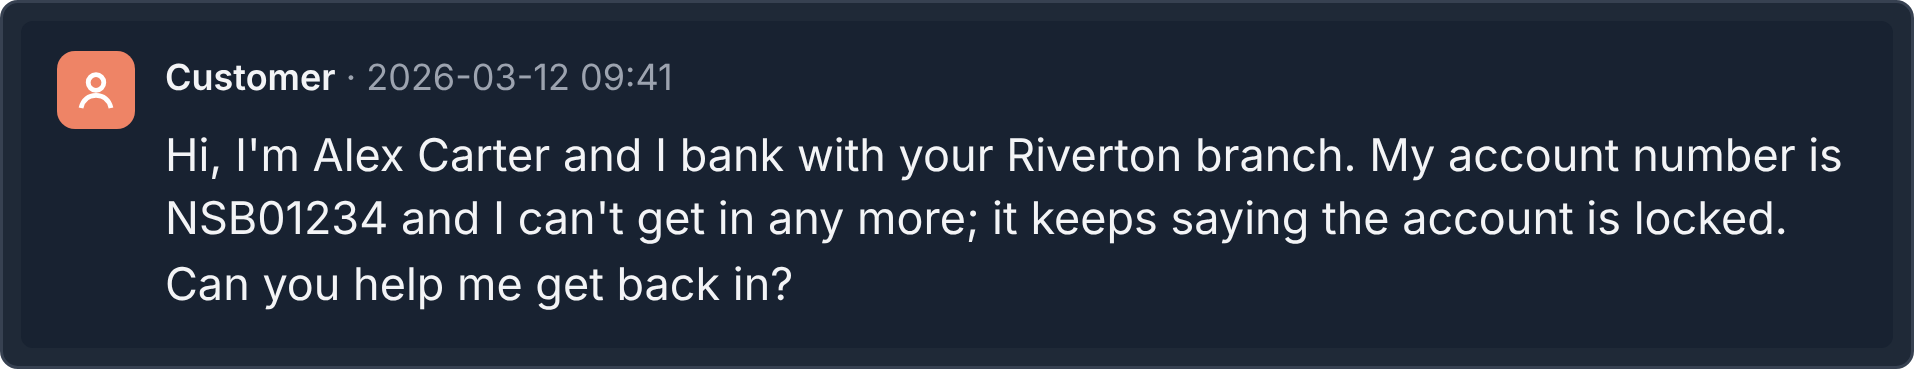
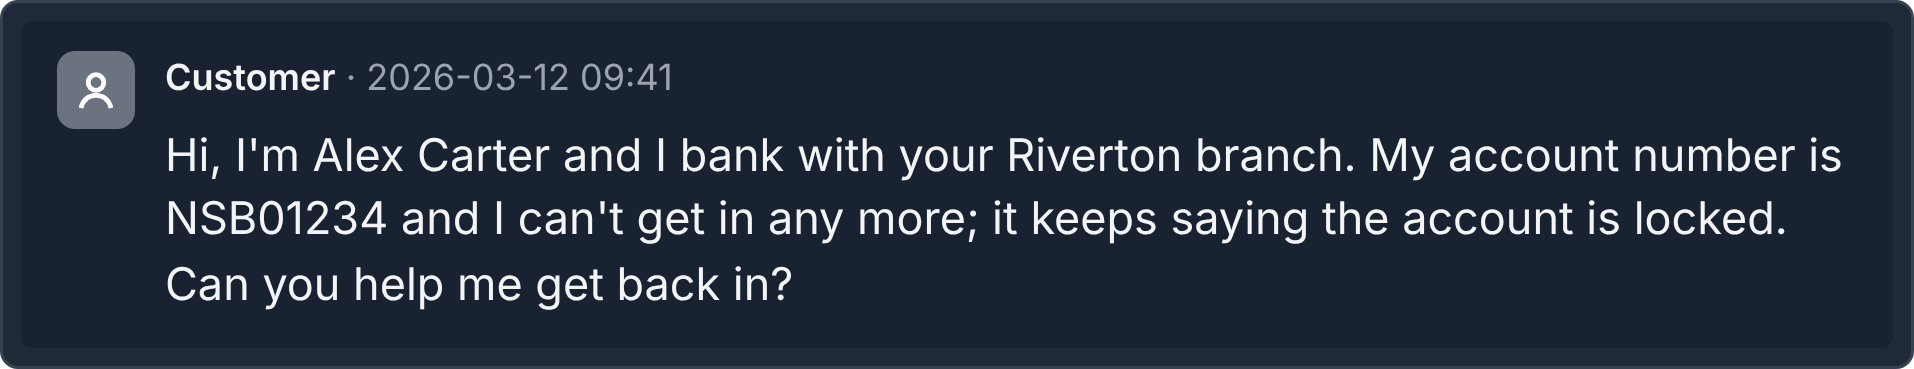
Use one color code across the figures
Green means approved and red rejected in every figure, the same green and
red as the checks and crosses: the review screen mockup gets an Approve /
Reject verdict, and the selected rejection reason is red instead of amber.
Customers and work items drop green, red and amber from their colors, and
the mockup's customer avatar and email chip no longer borrow them.

Claude-Session: https://claude.ai/code/session_01A3UmWfe5CV9rat5t97EcAJ

Changed region(s): [[0.0308, 0.1192, 0.0925, 0.3577]]

diff --git a/scripts/mockups/sme-review-screen.html b/scripts/mockups/sme-review-screen.html
@@ -25,10 +25,10 @@
     --text: #1f2937;
     --muted: #6b7280;
     --avatar: #e2e8f0;
-    --chip: #2a9d8f;
-    --selected: #e9a23b;
-    --selected-text: #1f2937;
-    --customer: #e76f51;
+    --chip: #2563eb;
+    --ok: #2a9d8f;
+    --bad: #e76f51;
+    --customer: #64748b;
     --width: 672px; /* the blog's desktop content column, so the PNG shows at 1:1 */
   }
   html.dark {
@@ -39,10 +39,10 @@
     --text: #f3f4f6;
     --muted: #9ca3af;
     --avatar: #374151;
-    --chip: #3bb3a4;
-    --selected: #f0b552;
-    --selected-text: #1f2937;
-    --customer: #ee8466;
+    --chip: #5b9cea;
+    --ok: #3bb3a4;
+    --bad: #ee8466;
+    --customer: #6b7280;
   }
 
   * { box-sizing: border-box; }
@@ -140,12 +140,18 @@
     display: grid;
     place-items: center;
   }
+  /* The same green and red as the checks and crosses in the post's figures. */
   .btn.selected {
-    background: var(--selected);
-    border-color: var(--selected);
-    color: var(--selected-text);
+    background: var(--bad);
+    border-color: var(--bad);
+    color: #fff;
     font-weight: 650;
   }
+  .verdict { display: flex; gap: 6px; }
+  .verdict .btn { display: inline-flex; gap: 6px; align-items: center; padding: 7px 14px; font-weight: 650; }
+  .verdict .btn svg { width: 14px; height: 14px; }
+  .btn.approve { color: var(--ok); border-color: var(--ok); }
+  .rejected { color: var(--bad); font-weight: 650; }
   .btn.small { display: inline-block; padding: 6px 10px; }
   .actions { margin-top: 10px; }
 
@@ -192,6 +198,20 @@
     <hr>
 
     <div class="section">
+      <h3>Verdict</h3>
+      <div class="verdict">
+        <div class="btn approve">
+          <svg viewBox="0 0 14 14" fill="none" stroke="currentColor" stroke-width="2" stroke-linecap="round" stroke-linejoin="round"><path d="M3 7.2l2.6 2.6L11 4.2"/></svg>
+          Approve
+        </div>
+        <div class="btn selected">
+          <svg viewBox="0 0 14 14" fill="none" stroke="currentColor" stroke-width="2" stroke-linecap="round"><path d="M3.5 3.5l7 7M10.5 3.5l-7 7"/></svg>
+          Reject
+        </div>
+      </div>
+    </div>
+
+    <div class="section">
       <h3>Rejection reason</h3>
       <div class="grid">
         <div class="btn">Uncategorized rejection</div>
@@ -225,7 +245,7 @@
           <div>
             <div class="meta"><b>Jordan M.</b> · 2026-03-12 14:05</div>
             <p><b>Annotation:</b> Wrong process</p>
-            <p><b>Verdict:</b> Rejected</p>
+            <p><b>Verdict:</b> <span class="rejected">Rejected</span></p>
           </div>
         </div>
       </div>

diff --git a/src/components/SystemMap.tsx b/src/components/SystemMap.tsx
@@ -11,7 +11,7 @@
  * angles. Static: rendered on the server, no JavaScript.
  */
 import type { ReactNode } from 'react';
-import { color, Person, Expert, Agent, Evals, Comment, Reply, type Point } from '../remotion/shared';
+import { color, PALETTE, Person, Expert, Agent, Evals, Comment, Reply, type Point } from '../remotion/shared';
 
 type NodeId = 'customers' | 'tickets' | 'support' | 'queue' | 'expert' | 'me' | 'coder' | 'tests' | 'it' | 'endpoints';
 type EdgeId =
@@ -170,9 +170,9 @@ function NodeIcon({ id, agentTranslates }: { id: NodeId; agentTranslates?: boole
     case 'customers':
       return (
         <g>
-          <Person x={x - 22} y={y + 4} scale={1.1} fill="#4f86c6" />
-          <Person x={x + 22} y={y + 4} scale={1.1} fill="#e76f51" />
-          <Person x={x} y={y - 4} scale={1.25} fill="#2a9d8f" />
+          <Person x={x - 22} y={y + 4} scale={1.1} fill={PALETTE[0]} />
+          <Person x={x + 22} y={y + 4} scale={1.1} fill={PALETTE[2]} />
+          <Person x={x} y={y - 4} scale={1.25} fill={PALETTE[1]} />
         </g>
       );
     case 'tickets':

diff --git a/src/remotion/shared.tsx b/src/remotion/shared.tsx
@@ -34,8 +34,12 @@ export type Token = keyof typeof LIGHT;
 /** A theme color, e.g. fill={color('node-bg')}. */
 export const color = (token: Token) => `var(--lv-${token}, ${LIGHT[token]})`;
 
-/** Customers and work items: mid-tones that read on light and dark backgrounds. */
-export const PALETTE = ['#2a9d8f', '#4f86c6', '#e76f51', '#8e7cc3', '#e9a23b'];
+/**
+ * Customers and work items: mid-tones that read on light and dark backgrounds.
+ * No green, red or amber, which mean approved, rejected and look-here in these
+ * figures.
+ */
+export const PALETTE = ['#4f86c6', '#8e7cc3', '#c06c9b', '#5b8fa8', '#9a7b5f'];
 
 const clamp = { extrapolateLeft: 'clamp', extrapolateRight: 'clamp' } as const;
 
